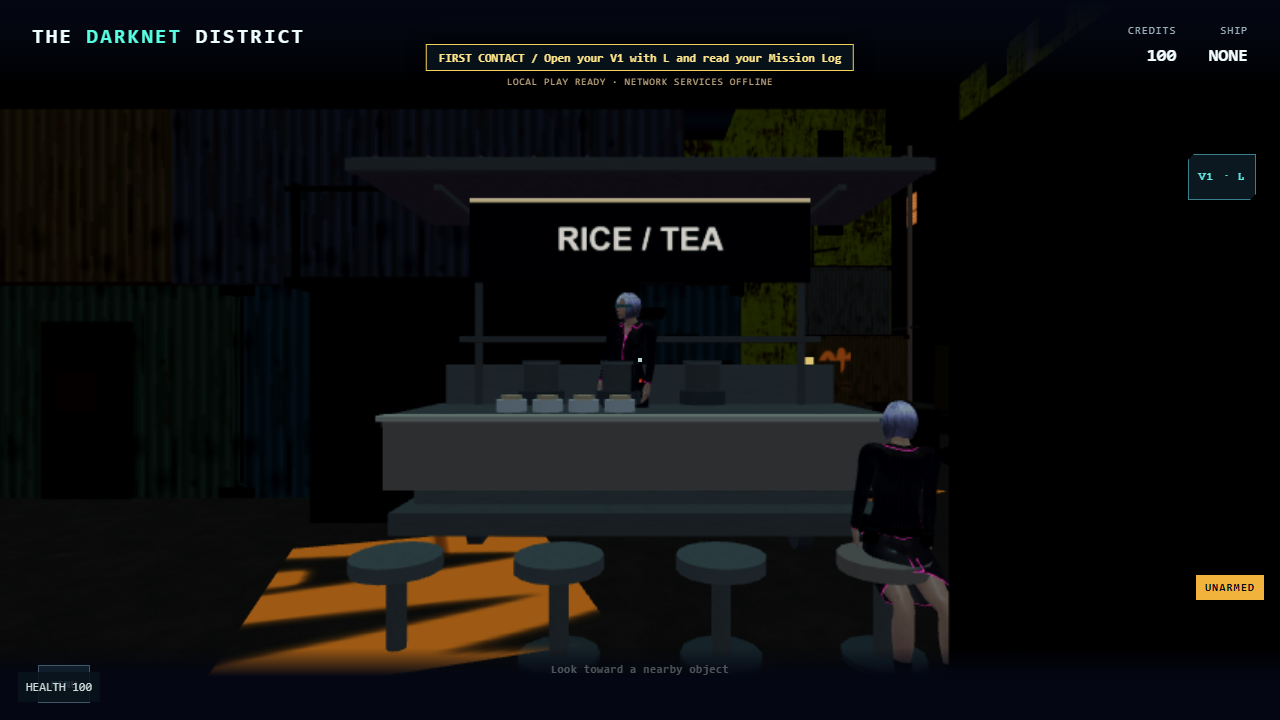
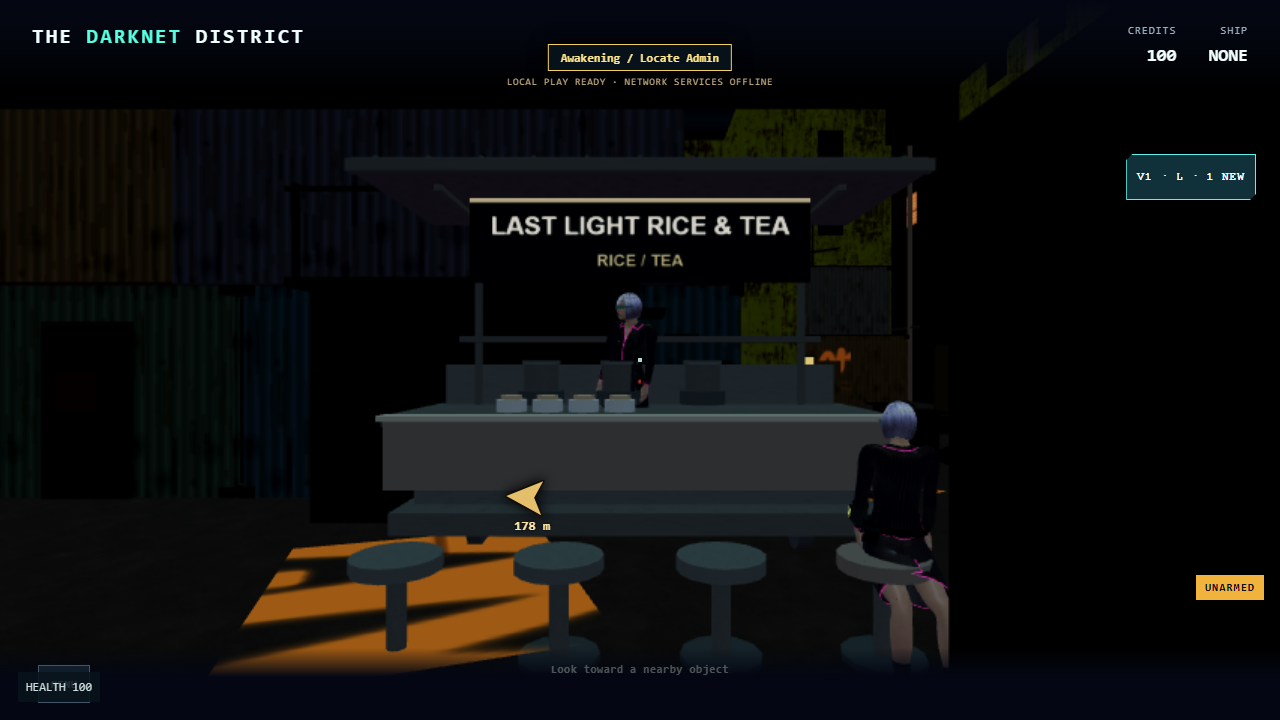
Name each NeoChinaTown food stand on its sign

diff --git a/void-runner/ncz-food-stands.js b/void-runner/ncz-food-stands.js
@@ -3,11 +3,11 @@
 (function(root){
  'use strict';
  const STANDS={
-  port:{name:'Port Noodles',x:35.5,z:-87.8,yaw:0,food:'NOODLES',accent:'#df9b5a',look:'communion-tech'},
-  oldtown:{name:'Main Street Kitchen',x:68.4,z:-87,yaw:Math.PI/2,food:'HOT NOODLES',accent:'#d58165',look:'ncz-neon'},
-  avenue:{name:'Avenue Dumplings',x:110,z:-16.8,yaw:Math.PI,food:'DUMPLINGS',accent:'#8dc6af',look:'fixer-01'},
-  'far-south':{name:'South Gate Broth',x:53.6,z:-155,yaw:-Math.PI/2,food:'BROTH',accent:'#d0a66c',look:'runner-02'},
-  outskirts:{name:'Outskirts Rice',x:86,z:-237,yaw:Math.PI/2,food:'RICE / TEA',accent:'#b6a786',look:'fixer-01'}
+  port:{name:'Docklight Noodles',x:35.5,z:-87.8,yaw:0,food:'NOODLES',accent:'#df9b5a',look:'communion-tech'},
+  oldtown:{name:'Lantern Kitchen',x:68.4,z:-87,yaw:Math.PI/2,food:'HOT NOODLES',accent:'#d58165',look:'ncz-neon'},
+  avenue:{name:'Jade Circuit Dumplings',x:110,z:-16.8,yaw:Math.PI,food:'DUMPLINGS',accent:'#8dc6af',look:'fixer-01'},
+  'far-south':{name:'Southline Broth',x:53.6,z:-155,yaw:-Math.PI/2,food:'BROTH',accent:'#d0a66c',look:'runner-02'},
+  outskirts:{name:'Last Light Rice & Tea',x:86,z:-237,yaw:Math.PI/2,food:'RICE / TEA',accent:'#b6a786',look:'fixer-01'}
  };
  const world=(s,x,z)=>[s.x+Math.cos(s.yaw)*x+Math.sin(s.yaw)*z,s.z-Math.sin(s.yaw)*x+Math.cos(s.yaw)*z];
  const front=s=>world(s,0,-2.15);
@@ -47,7 +47,9 @@
   // Small practical lamp, no outline glow. Shared sign texture is readable at player height.
   const lamp=new B.StandardMaterial('food-'+quarter+'-lamp',scene);lamp.emissiveColor=B.Color3.FromHexString('#e8b477').scale(.55);lamp.diffuseColor=B.Color3.FromHexString('#75664e');materials.push(lamp);
   box('task-lamp',.48,.07,.11,[0,2.7,-.47],lamp);
-  const sign=new B.DynamicTexture('food-'+quarter+'-menu',{width:512,height:128},scene,true);const g=sign.getContext();g.fillStyle='#161d1d';g.fillRect(0,0,512,128);g.fillStyle=s.accent;g.fillRect(0,0,512,7);g.fillStyle='#e5ddd1';g.font='bold 48px sans-serif';g.textAlign='center';g.textBaseline='middle';g.fillText(s.food,256,66);sign.update();textures.push(sign);
+  const sign=new B.DynamicTexture('food-'+quarter+'-menu',{width:512,height:128},scene,true);const g=sign.getContext();g.fillStyle='#161d1d';g.fillRect(0,0,512,128);g.fillStyle=s.accent;g.fillRect(0,0,512,7);g.textAlign='center';g.textBaseline='middle';
+  let nameSize=40;do{g.font='bold '+nameSize+'px sans-serif';if(g.measureText(s.name.toUpperCase()).width<=470)break;nameSize-=2;}while(nameSize>24);
+  g.fillStyle='#f2e8d8';g.fillText(s.name.toUpperCase(),256,45);g.fillStyle=s.accent;g.font='bold 25px sans-serif';g.fillText(s.food,256,96);sign.update();textures.push(sign);
   const signMat=new B.StandardMaterial('food-'+quarter+'-sign',scene);signMat.diffuseTexture=sign;signMat.emissiveTexture=sign;signMat.emissiveColor=new B.Color3(.22,.22,.22);signMat.backFaceCulling=false;materials.push(signMat);
   keep(B.MeshBuilder.CreatePlane('food-menu-'+quarter,{width:2.45,height:.61,sideOrientation:B.Mesh.DOUBLESIDE},scene),signMat,[0,2.54,-.53]);
   const steam=[];if(!low){const puff=new B.DynamicTexture('food-puff-'+quarter,{width:32,height:32},scene,true);const pg=puff.getContext(),grad=pg.createRadialGradient(16,16,1,16,16,16);grad.addColorStop(0,'rgba(255,255,255,.6)');grad.addColorStop(1,'rgba(255,255,255,0)');pg.fillStyle=grad;pg.fillRect(0,0,32,32);puff.update();textures.push(puff);for(const x of [-.17,.52]){const ps=new B.ParticleSystem('food-steam-'+quarter,24,scene);ps.particleTexture=puff;ps.emitter=node;ps.minEmitBox=new B.Vector3(x-.08,1.72,.09);ps.maxEmitBox=new B.Vector3(x+.08,1.75,.25);ps.color1=new B.Color4(.6,.68,.67,.11);ps.color2=new B.Color4(.55,.6,.6,.04);ps.colorDead=new B.Color4(.55,.6,.6,0);ps.minSize=.12;ps.maxSize=.32;ps.minLifeTime=.7;ps.maxLifeTime=1.5;ps.emitRate=7;ps.direction1=new B.Vector3(-.05,.22,-.04);ps.direction2=new B.Vector3(.08,.4,.05);ps.minEmitPower=.2;ps.maxEmitPower=.5;ps.updateSpeed=.03;ps.start();steam.push(ps);}}

diff --git a/void-runner-sw.js b/void-runner-sw.js
@@ -1,7 +1,7 @@
 /* VOID//RUNNER only. Increment BUILD when deploying changed game files (the Pages build also stamps it with the commit,
    tools/assets/build-pages.cjs, so a deploy always starts a fresh cache). Restored 2026-10-31: a merge on 2026-10-26
    (f6f582e) had reduced this file to its BUILD line, which left the game without its offline cache. */
-const BUILD='2026-11-17-food-stands-2';
+const BUILD='2026-11-17-food-stands-3';
 const CORE='void-runner-core-'+BUILD;
 const ASSETS='void-runner-assets-'+BUILD;
 const PAGE=new URL('./void-runner.html',self.location).pathname;

diff --git a/docs/development/NCZ_FOOD_STANDS.md b/docs/development/NCZ_FOOD_STANDS.md
@@ -2,13 +2,15 @@
 
 David requested one food stand inside each of the five checkpoint quarters, with **four seats per stand: three open to players and one occupied by a customer NPC**. This branch is isolated from Claude's Old Town, Port and playthrough branches. It is not merged or live.
 
-| Quarter | Counter centre (x, z) | Faces |
-| --- | ---: | --- |
-| Port | 35.5, -87.8 | Pad |
-| Old Town | 68.4, -87 | Main Street |
-| Avenue | 110, -16.8 | Road |
-| Far South | 53.6, -155 | Main Street |
-| Outskirts | 86, -237 | Gravel route |
+| Quarter | Stand name | Counter centre (x, z) | Faces |
+| --- | --- | ---: | --- |
+| Port | Docklight Noodles | 35.5, -87.8 | Pad |
+| Old Town | Lantern Kitchen | 68.4, -87 | Main Street |
+| Avenue | Jade Circuit Dumplings | 110, -16.8 | Road |
+| Far South | Southline Broth | 53.6, -155 | Main Street |
+| Outskirts | Last Light Rice & Tea | 86, -237 | Gravel route |
+
+Each stand's name appears on its sign above the food type and in its interaction prompts.
 
 `void-runner/ncz-food-stands.js` owns the placement, meshes, one vendor and one seated customer in each quarter. The counters use existing crowd models and procedurally worn PBR materials; they introduce no licensed assets, paid generation or new voice. `street-gear.js` now dresses food workers in a fitted work apron instead of a thigh rig and bracer. `ncz-food-interactions.js` makes the three empty stools usable in first person, with E or Space to stand. The vendor turns to a talk animation when addressed and gives one short line; the customer holds a seated pose. There is no purchase, inventory or save change. If the parked Port rebuild is enabled later, its own stand replaces this Port counter.
 

diff --git a/docs/development/AI_HANDOFF.md b/docs/development/AI_HANDOFF.md
@@ -6,7 +6,7 @@
 
 ## CURRENT DEVELOPMENT STATE — RESUME HERE
 
-> **Codex draft, 17 Nov 2026:** David requested one food stand inside each of the five NeoChinaTown checkpoint quarters. Each has four seats total: three open for players and one occupied by a customer NPC. Work is isolated on `codex/ncz-food-stands` / PR #356, not merged or live. See [`NCZ_FOOD_STANDS.md`](NCZ_FOOD_STANDS.md) for placements, integration, tests, and player-eye screenshots. The parked Port rebuild has its own stall and takes that quarter's spot if enabled later.
+> **Codex draft, 17 Nov 2026:** David requested one named food stand inside each of the five NeoChinaTown checkpoint quarters. Each name appears on the cart sign and in interaction prompts. Each has four seats total: three open for players and one occupied by a customer NPC. Work is isolated on `codex/ncz-food-stands` / PR #356, not merged or live. See [`NCZ_FOOD_STANDS.md`](NCZ_FOOD_STANDS.md) for names, placements, integration, tests, and player-eye screenshots. The parked Port rebuild has its own stall and takes that quarter's spot if enabled later.
 
 ### 17 Nov 2026 (newest): HALDEN REYES IN MISSION 002 (branch `claude/halden-reyes`, build `2026-11-17-halden-1`, pushed, NO PR, not merged)
 
